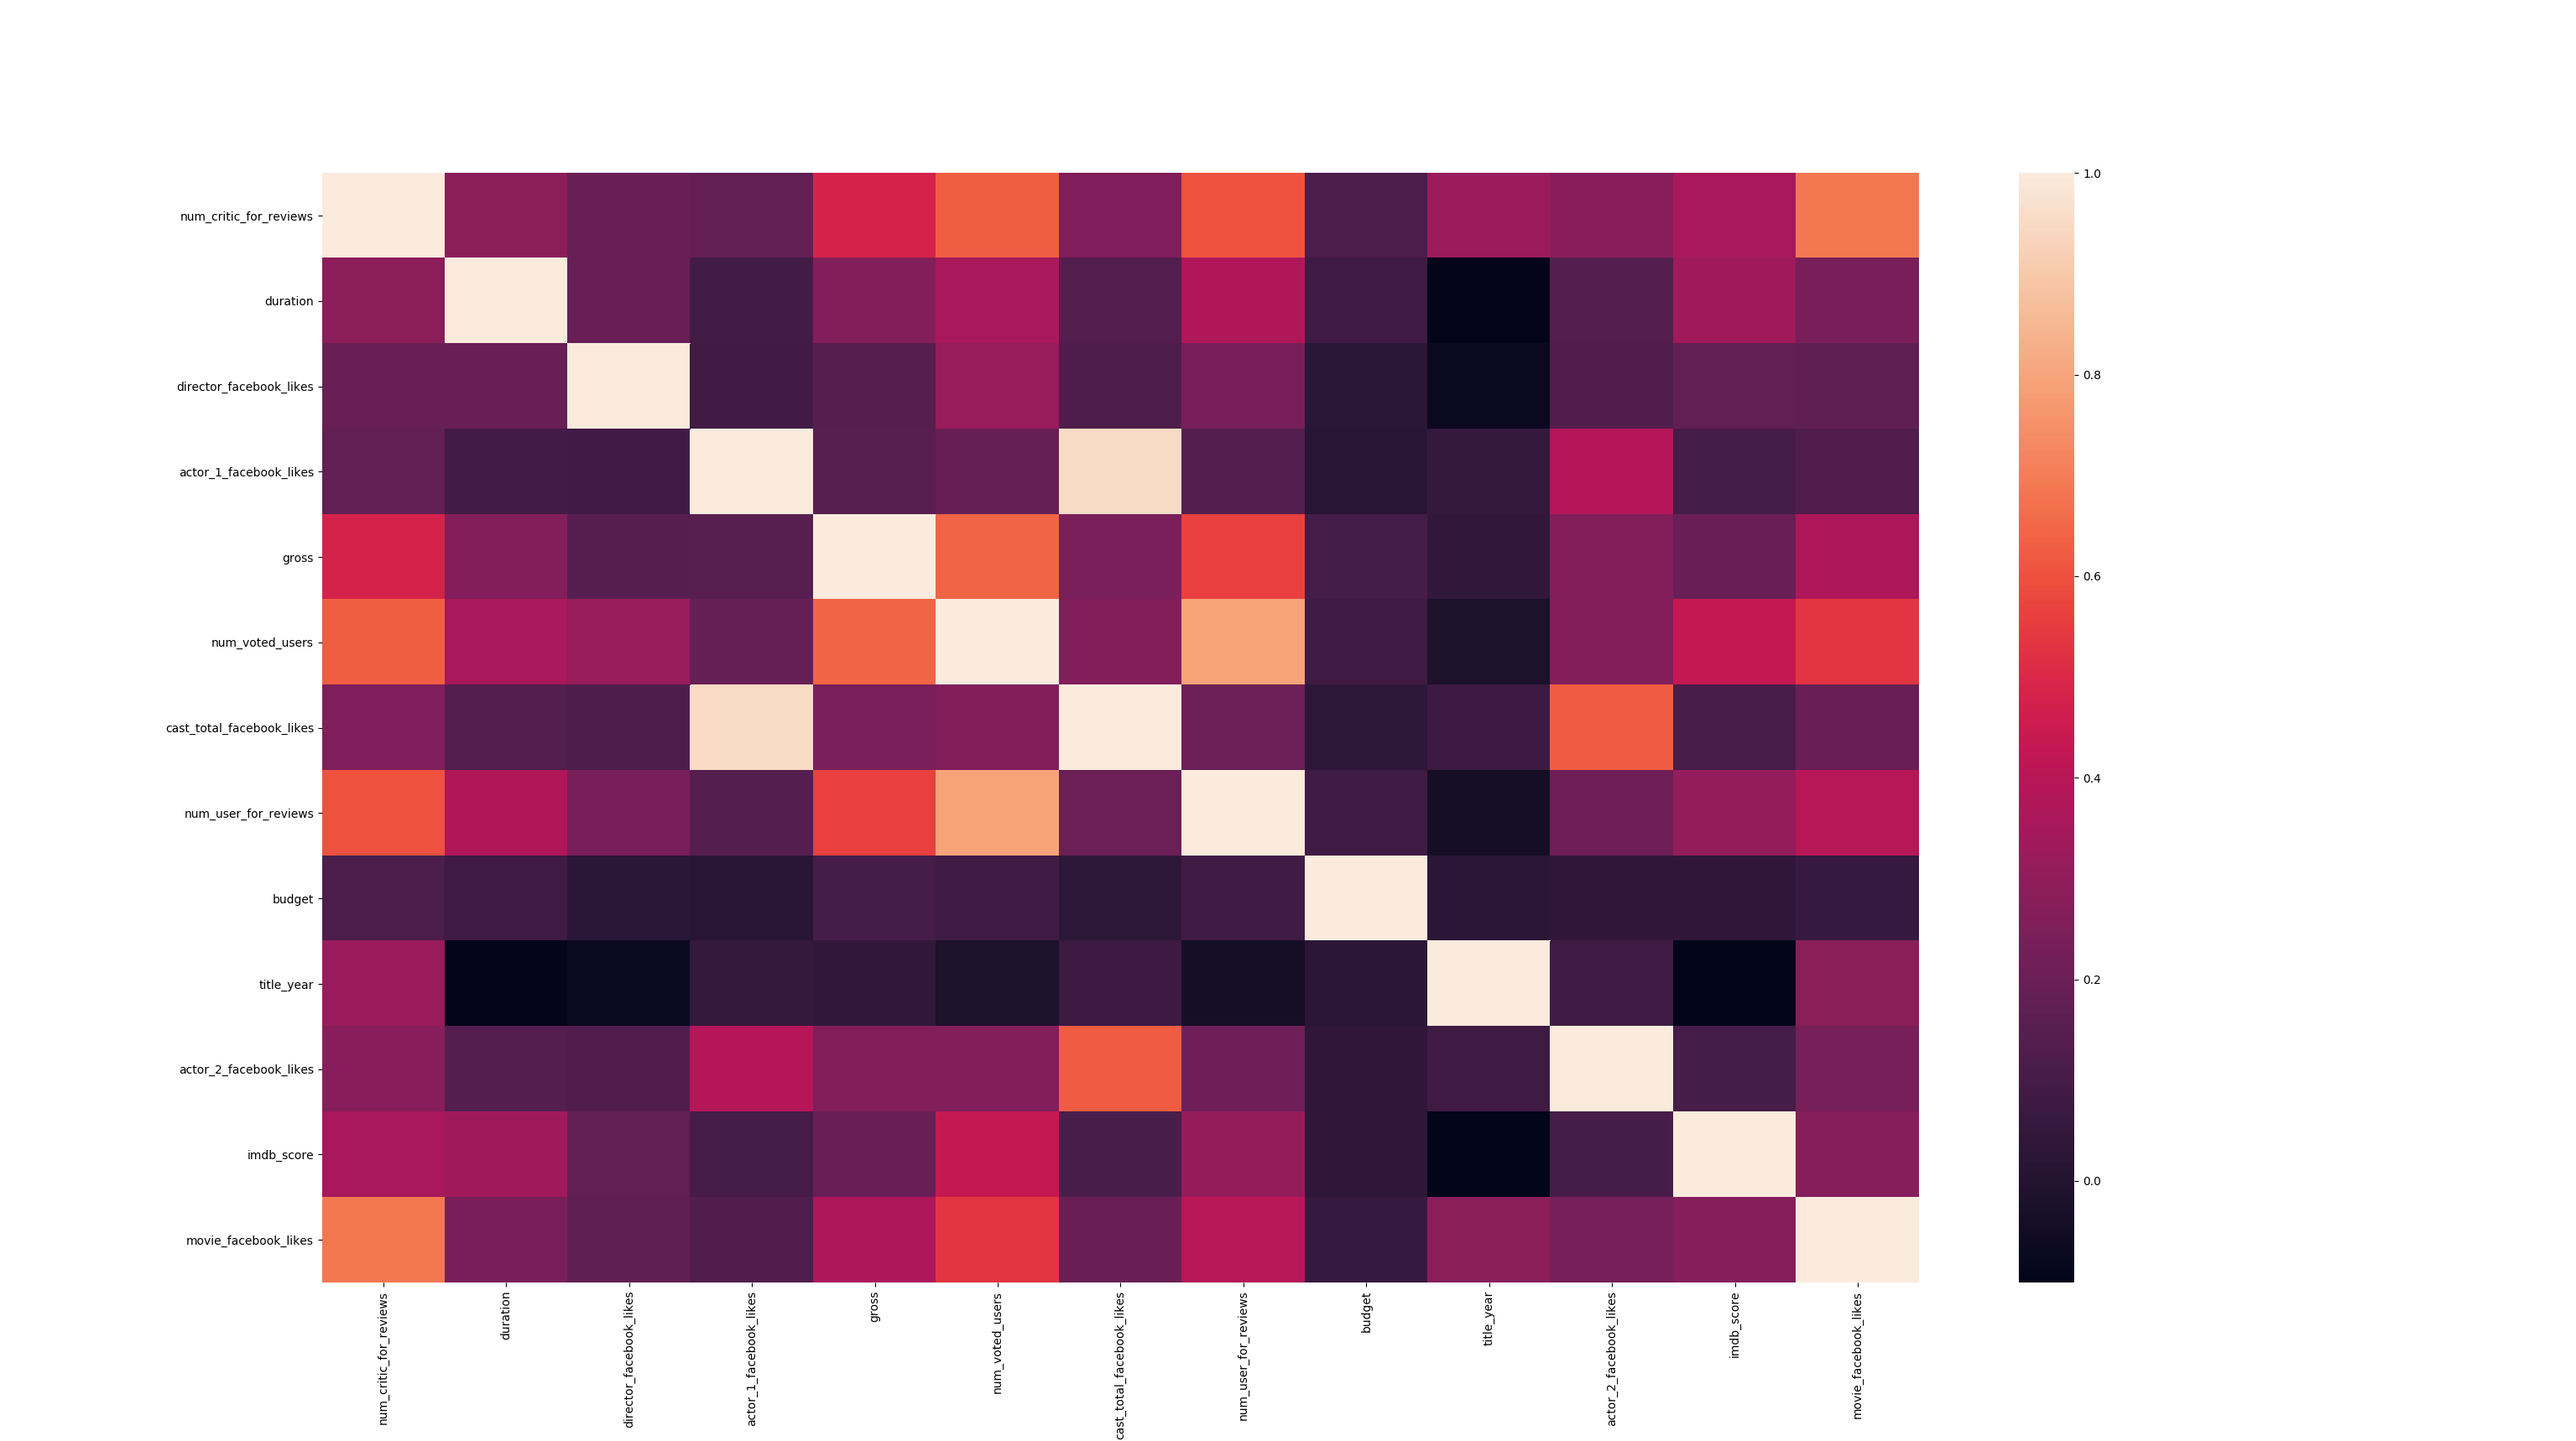
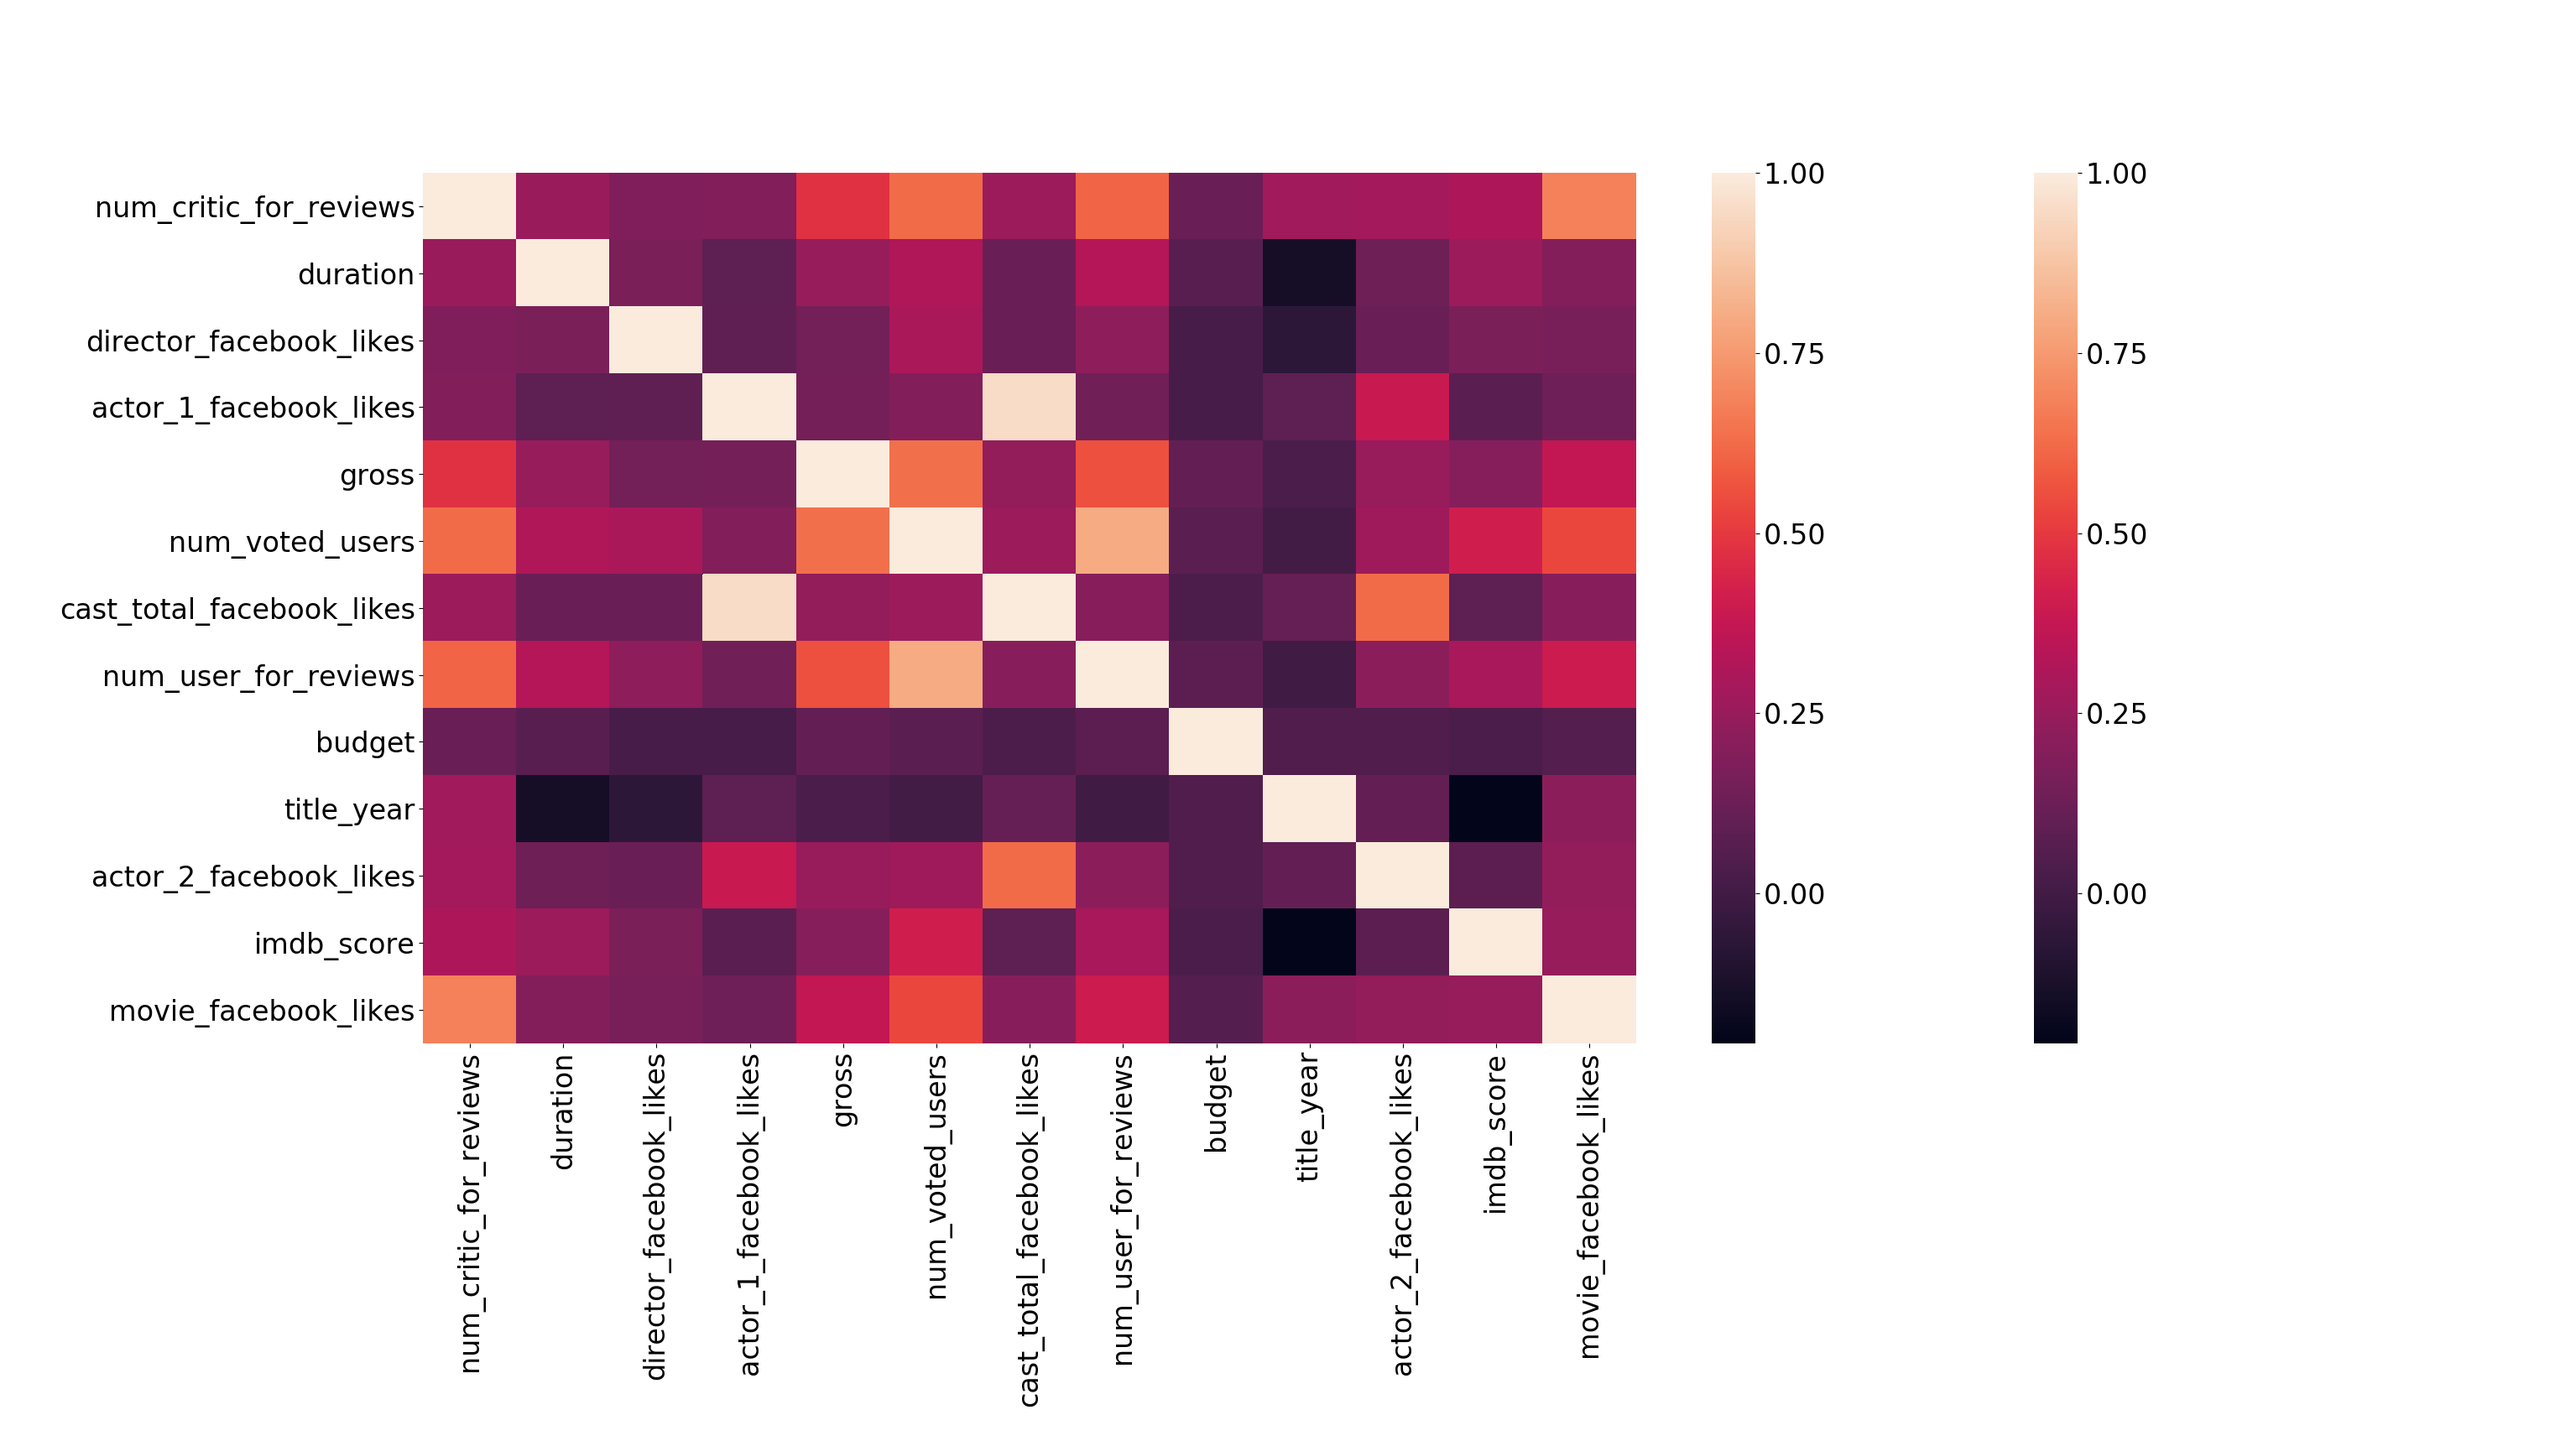
correlation matrix labels are better

diff --git a/final.py b/final.py
@@ -150,18 +150,19 @@ df['country'] = df['country'].fillna('unknown')
 
 #################Correlation plot
 
-# corr = df.corr()
-# corrPlot = sns.heatmap(corr, xticklabels=corr.columns.values, yticklabels=corr.columns.values)
-# sns.heatmap(corr, xticklabels=corr.columns.values, yticklabels=corr.columns.values)
-# plt.show()
+plt.rcParams.update({'font.size': 24})
+corr = df.corr()
+corrPlot = sns.heatmap(corr, xticklabels=corr.columns.values, yticklabels=corr.columns.values)
+sns.heatmap(corr, xticklabels=corr.columns.values, yticklabels=corr.columns.values)
+plt.show()
 
 #Manually save the plot
 
 
 # ################Country Mean Plot 
-plt.rcParams.update({'font.size': 24})
-df.groupby('country').imdb_score.mean().nlargest(20).plot(kind='bar')
-plt.show()
+
+# df.groupby('country').imdb_score.mean().nlargest(20).plot(kind='bar')
+# plt.show()
 
 
 ################## actor likes vs gross 
